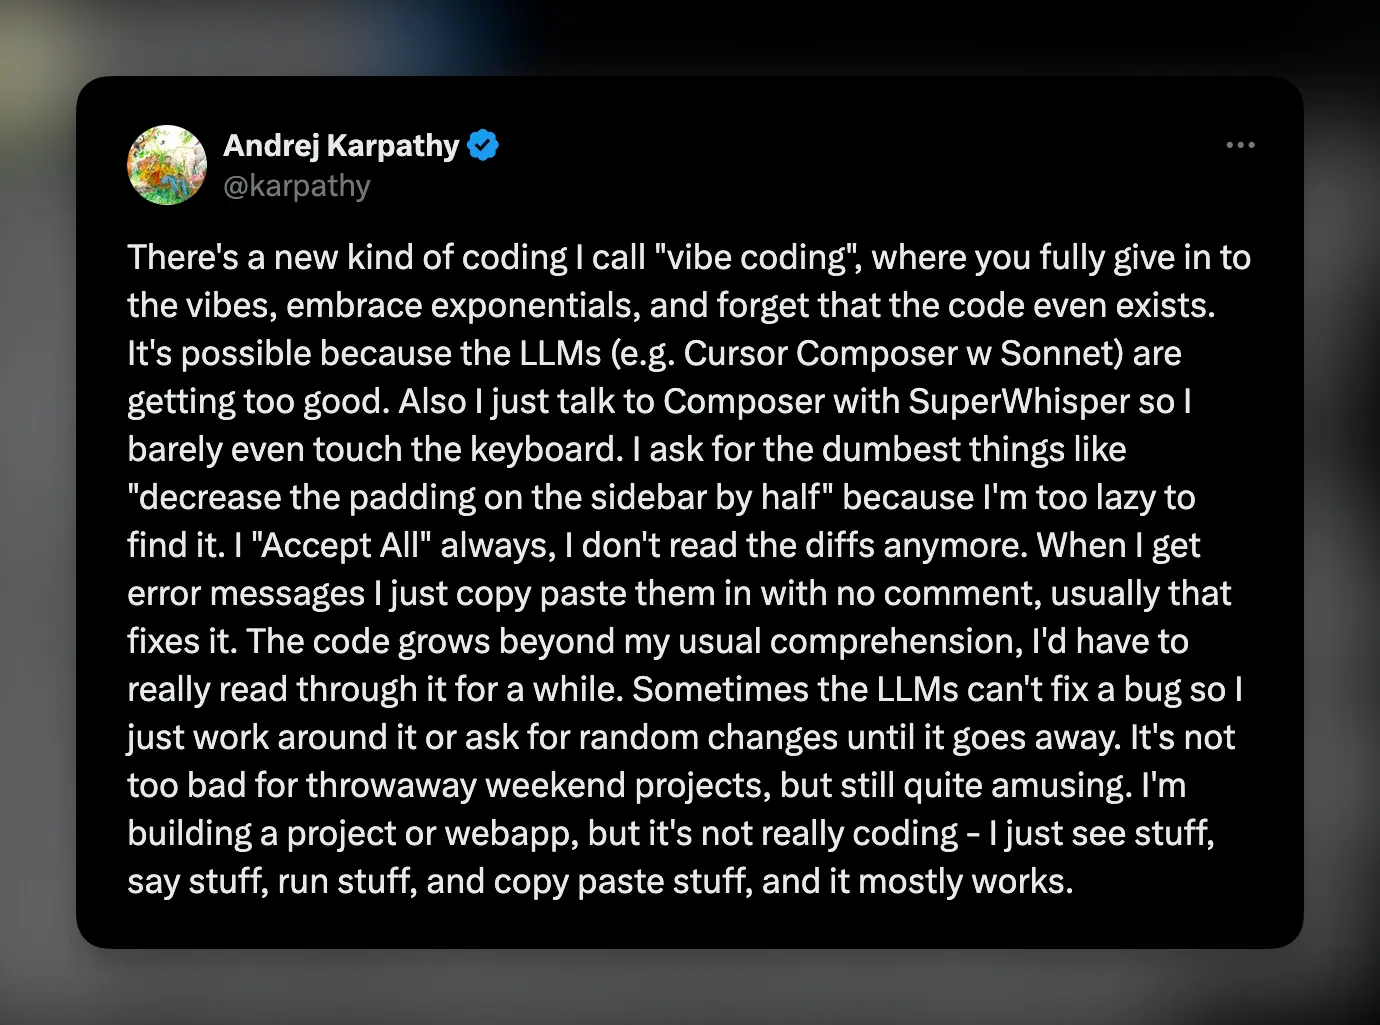
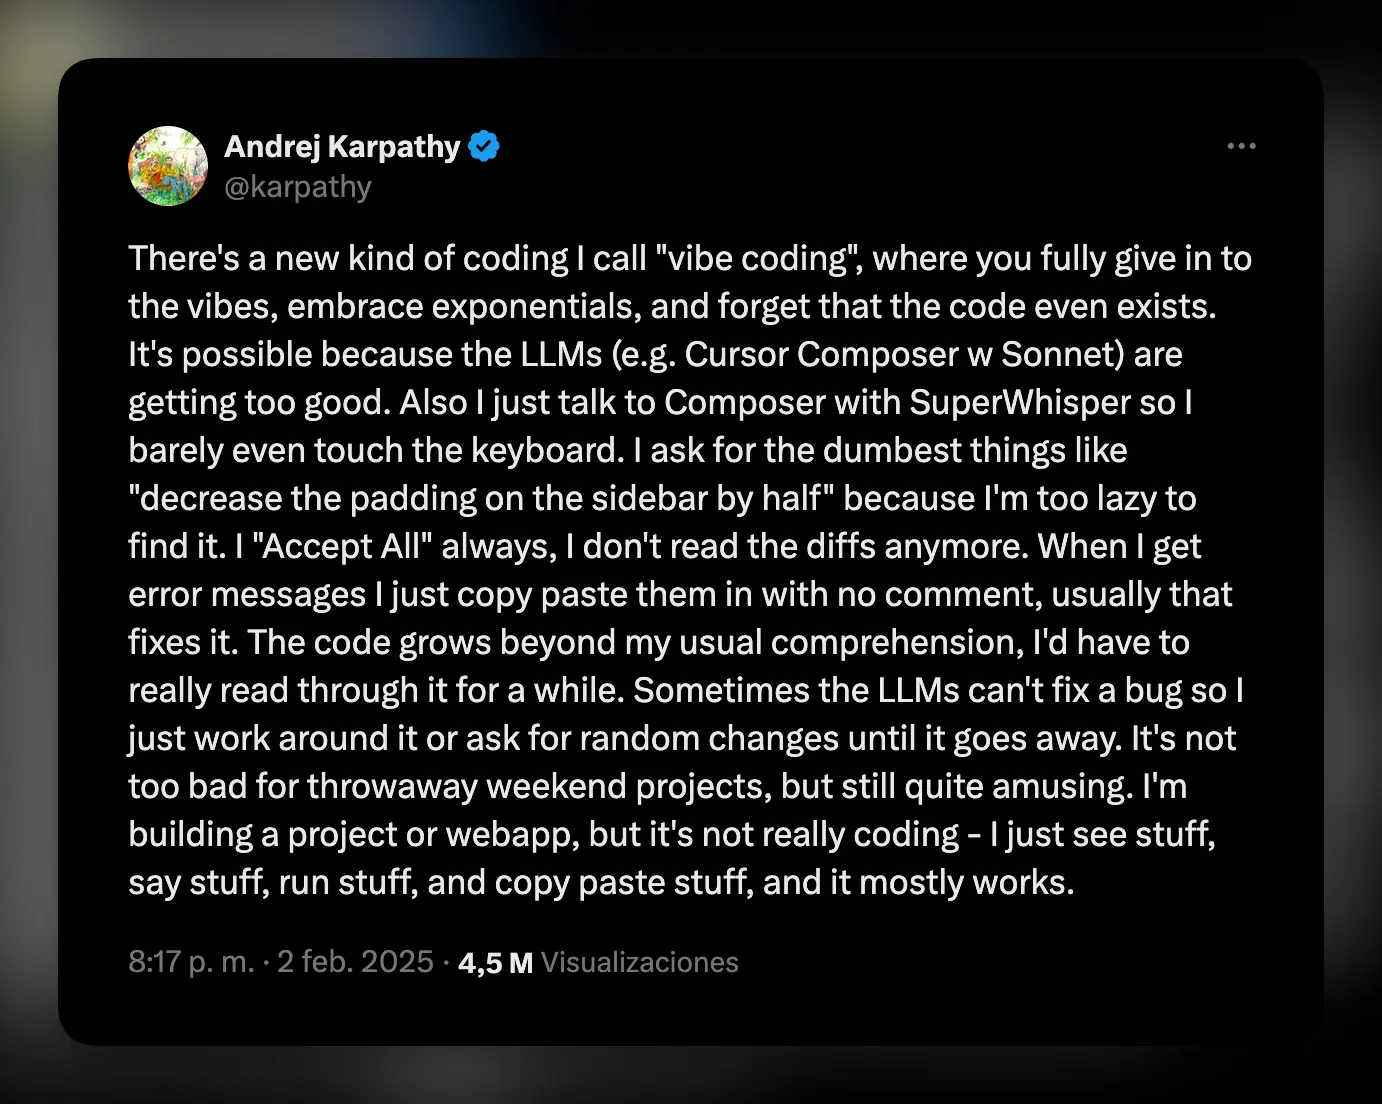
Update vibe coding definition and add Karpathy's profile image

diff --git a/src/content/posts/vibe_coding.md b/src/content/posts/vibe_coding.md
@@ -15,7 +15,7 @@ draft: false
 
 ## ¿Qué es el Vibe Coding?
 
-Es un enfoque de programación asistida por inteligencia artificial donde no escribes el código manualmente, sino que describes en lenguaje natural lo que quieres lograr y la IA genera el código funcional a partir de esa descripción. Fue acuñado por Andrej Karpathy en 2025 y representa un cambio de paradigma en el desarrollo de software, donde el programador actúa más como un director creativo que define la intención o “vibra” del proyecto, mientras la IA se encarga de la implementación técnica.
+Es una forma distinta de programar software usando inteligencia artificial. En vez de escribir el código a mano, le dices a la IA —en lenguaje natural— qué quieres construir, y ella se encarga de hacerlo. El término lo propuso **Andrej Karpathy** y plantea un giro interesante: no se trata de escribir código, sino más bien de dar la dirección, la intención, la “vibra” del proyecto, para que la IA lo ejecuta.
 
 ![andrej_karpathy](/blog/images/posts/andrej_karpathy.webp)
 
